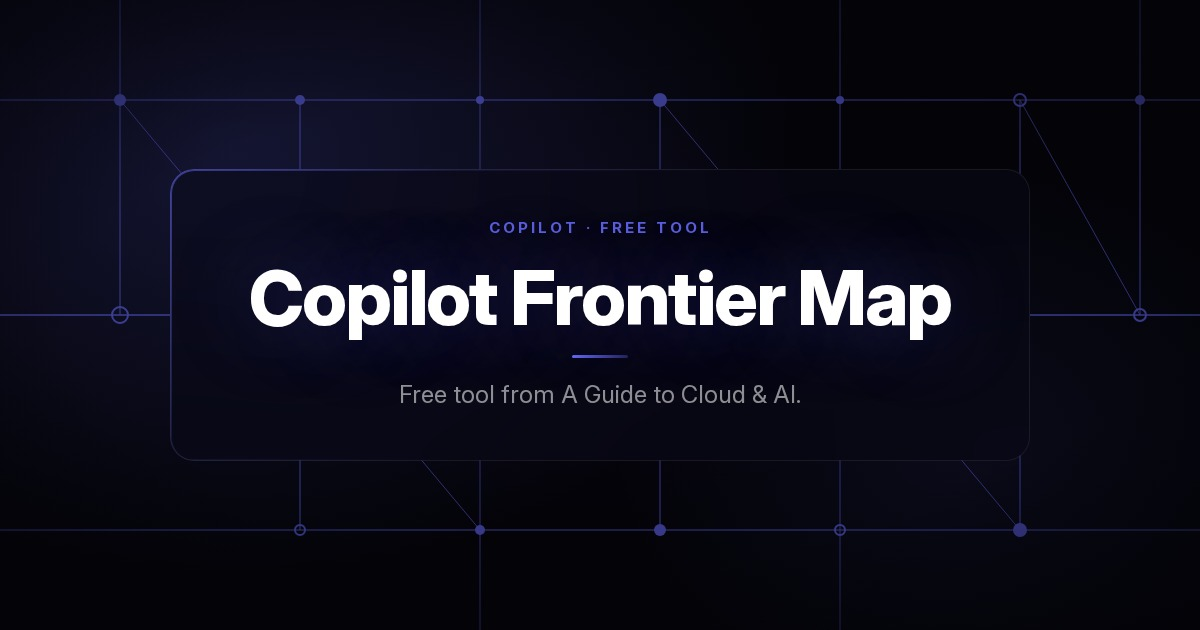
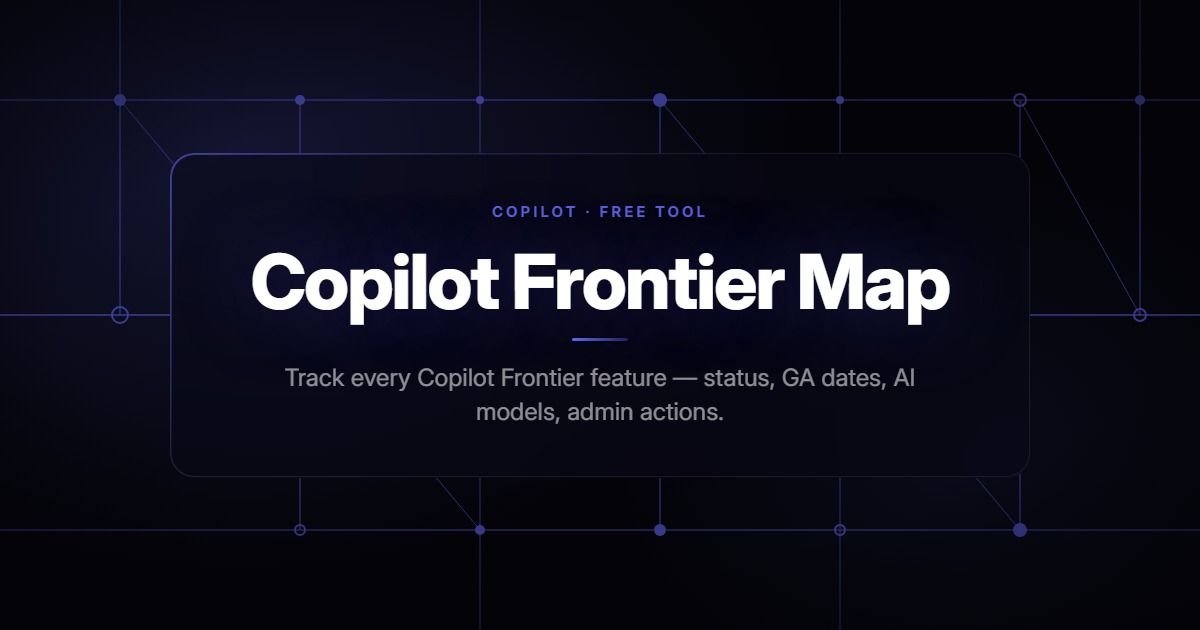
chore: Add Frontier Map OG image + automated freshness check
- Generated OG image (1200x630) with tagline
- Added check_frontier_map() to data-freshness.py (runs 1st & 15th)
  - Checks last_verified dates (warns at 14d, alerts at 30d)
  - Scrapes Frontier Features page for changes
  - Verifies metadata.toml freshness
- Added tagline to taglines.toml

Changed region(s): [[0.185, 0.3016, 0.8017, 0.6635], [0.1542, 0.2413, 0.4933, 0.2714], [0.1233, 0.2714, 0.1542, 0.3016]]

diff --git a/scripts/check-data-freshness.py b/scripts/check-data-freshness.py
@@ -169,6 +169,76 @@ def check_pipeline_data_ages():
             ISSUES.append(f"🔴 **{name}** data file missing: {path}")
 
 
+def check_frontier_map():
+    """Check Copilot Frontier Map data freshness and Frontier Features page for changes."""
+    print("\nChecking Copilot Frontier Map...")
+
+    # 1. Check last_verified dates in features.toml
+    features_path = ROOT / "data" / "copilot_frontier_map" / "features.toml"
+    if not features_path.exists():
+        ISSUES.append("🔴 **Frontier Map** features.toml not found")
+        return
+
+    content = features_path.read_text()
+    last_verified_dates = re.findall(r'last_verified\s*=\s*"(\d{4}-\d{2}-\d{2})"', content)
+
+    if last_verified_dates:
+        oldest = min(last_verified_dates)
+        oldest_dt = datetime.strptime(oldest, '%Y-%m-%d').replace(tzinfo=timezone.utc)
+        age_days = (datetime.now(timezone.utc) - oldest_dt).days
+        print(f"  Oldest last_verified: {oldest} ({age_days} days ago)")
+        if age_days > 30:
+            ISSUES.append(f"🔴 **Frontier Map** data is {age_days} days old (oldest: {oldest}). Check Microsoft Frontier Features page for updates.")
+        elif age_days > 14:
+            ISSUES.append(f"🟡 **Frontier Map** data is {age_days} days old. Consider verifying against Frontier Features page.")
+        else:
+            print(f"  ✅ Data is fresh ({age_days} days)")
+
+    # 2. Check Frontier Features page for new content
+    try:
+        url = "https://www.microsoft.com/en-us/microsoft-365-copilot/frontier-features"
+        resp = requests.get(url, timeout=15, headers={'User-Agent': 'Mozilla/5.0 (aguidetocloud-freshness-check)'})
+        page_text = resp.text.lower()
+
+        # Check for current month mentions (new features announced this month)
+        months = ['january', 'february', 'march', 'april', 'may', 'june',
+                  'july', 'august', 'september', 'october', 'november', 'december']
+        now = datetime.now(timezone.utc)
+        current_month = months[now.month - 1]
+        current_year = str(now.year)
+
+        has_current_month = f"{current_month} {current_year}" in page_text
+        print(f"  Frontier page mentions '{current_month} {current_year}': {'✅ Yes' if has_current_month else '⚠ No'}")
+
+        # Count feature keywords in page and compare to our data
+        feature_names = re.findall(r'name\s*=\s*"([^"]+)"', content)
+        missing = []
+        # Known keywords that should be on the Frontier page if still active
+        frontier_keywords = ['cowork', 'researcher', 'legal agent', 'call delegation', 'planner']
+        for kw in frontier_keywords:
+            if kw not in page_text:
+                print(f"  ⚠ '{kw}' not found on Frontier page — may have graduated or been removed")
+
+        print(f"  Page fetched OK ({len(resp.text) // 1024} KB)")
+
+    except Exception as e:
+        print(f"  ⚠ Could not fetch Frontier page: {e}")
+        ISSUES.append(f"🟡 **Frontier Map** could not reach Frontier Features page: {e}")
+
+    # 3. Check metadata last_updated
+    meta_path = ROOT / "data" / "copilot_frontier_map" / "metadata.toml"
+    if meta_path.exists():
+        meta_content = meta_path.read_text()
+        m = re.search(r'last_updated\s*=\s*"(\d{4}-\d{2}-\d{2})"', meta_content)
+        if m:
+            meta_date = m.group(1)
+            meta_dt = datetime.strptime(meta_date, '%Y-%m-%d').replace(tzinfo=timezone.utc)
+            meta_age = (datetime.now(timezone.utc) - meta_dt).days
+            print(f"  Metadata last_updated: {meta_date} ({meta_age} days ago)")
+            if meta_age > 30:
+                ISSUES.append(f"🔴 **Frontier Map** metadata.toml last_updated is {meta_age} days old. Update the last_updated date after verifying features.")
+
+
 def main():
     print("=== Data Freshness Check ===\n")
 
@@ -177,6 +247,7 @@ def main():
     check_roi_consistency()
     check_ai_vendors()
     check_pipeline_data_ages()
+    check_frontier_map()
 
     print(f"\n{'='*50}")
     print(f"Issues found: {len(ISSUES)}")
